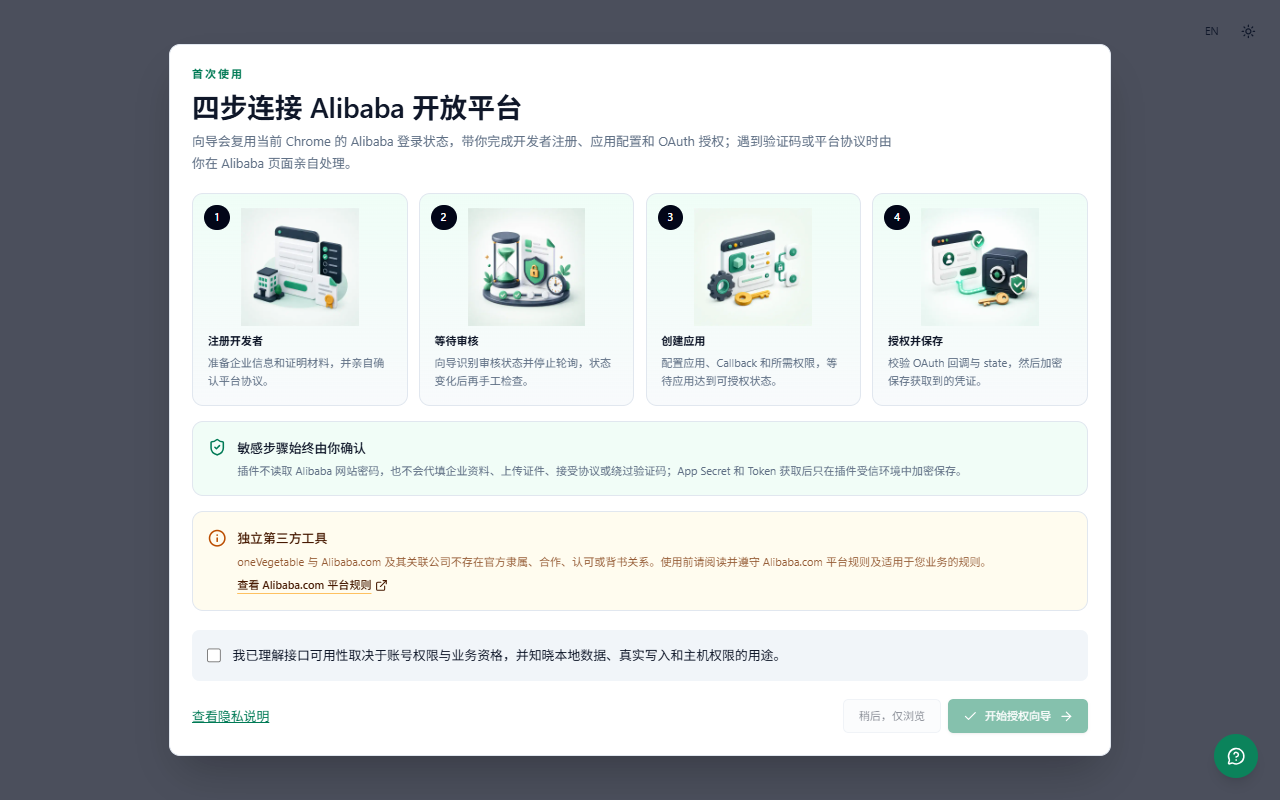
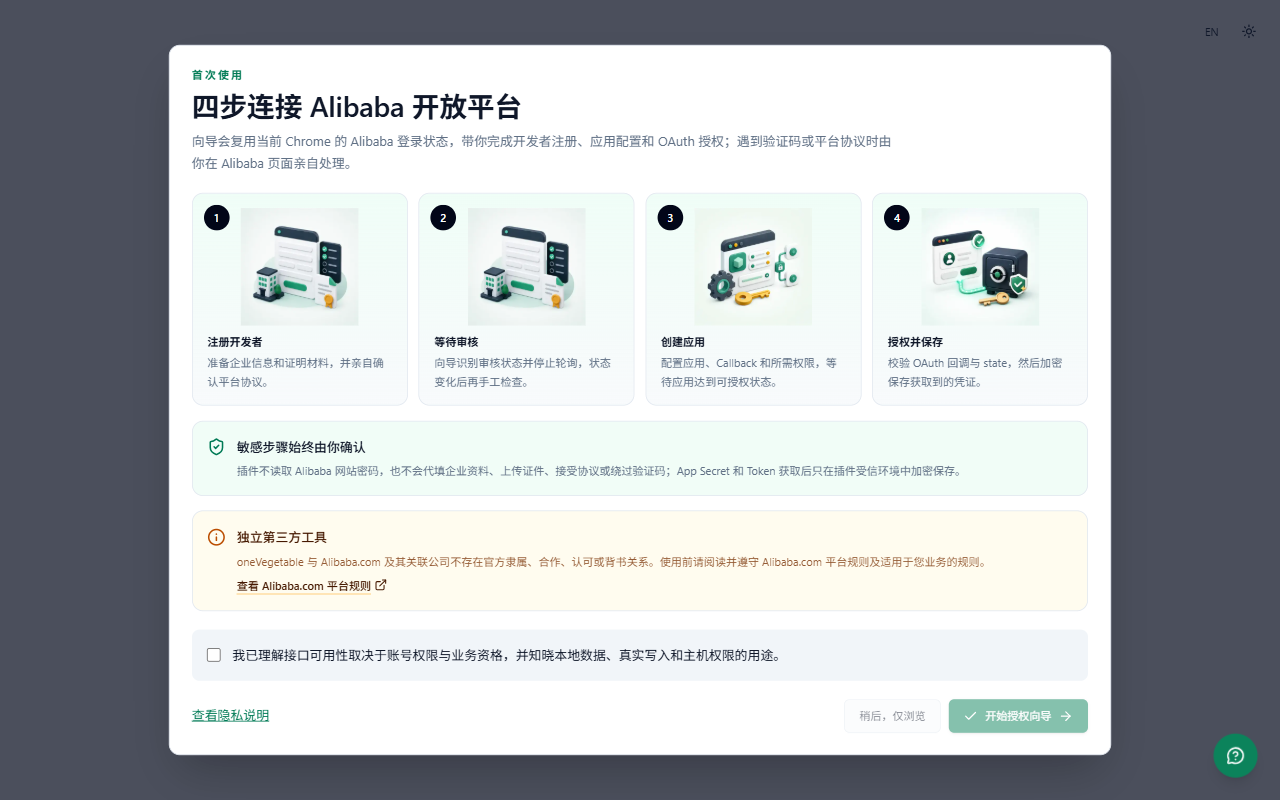
docs(release): finalize 2.6.0 candidate evidence and store screenshots

diff --git a/scripts/capture-store-assets.ts b/scripts/capture-store-assets.ts
@@ -68,9 +68,17 @@ await copyFile(
   resolve(screenshotsDirectory, 'zh-CN/01-onboarding.png'),
   resolve(screenshotsDirectory, '01-onboarding.png')
 );
+await copyFile(
+  resolve(screenshotsDirectory, 'zh-CN/03-capability-catalog.png'),
+  resolve(screenshotsDirectory, '02-capability-catalog.png')
+);
+await copyFile(
+  resolve(screenshotsDirectory, 'zh-CN/04-credential-settings.png'),
+  resolve(screenshotsDirectory, '03-local-data-control.png')
+);
 
 process.stdout.write(
-  'Captured 8 extension screenshots (4 zh-CN and 4 en-US) at 1280x800, refreshed the primary onboarding screenshot, and copied the 128px store icon.\n'
+  'Captured 8 extension screenshots (4 zh-CN and 4 en-US) at 1280x800, refreshed all 3 primary screenshots, and copied the 128px store icon.\n'
 );
 
 async function captureLocale(screenshotLocale: StoreScreenshotLocale): Promise<void> {

diff --git a/docs/release-2.6.0-readiness.md b/docs/release-2.6.0-readiness.md
@@ -1,8 +1,51 @@
 # 2.6.0 候选包验收
 
-状态：当前 2.6.0 候选包已重新构建，仍未正式发布。前序开发分支已合入并推送 `staging`（`ba27dc0`），其上创建 `codex/product-showcase-management`。本次新功能没有合入 master，没有创建发布 Tag、GitHub Release、部署 Worker 或提交 Chrome Web Store。
+状态：2.5.0 已由项目所有者确认上架；2.6.0 仍是候选，不是已发布版本。功能代码已推进到 `master` / `staging` 的 `d67aa45`；发布准备在 `codex/release-2.6.0-readiness` 完成。本轮没有创建发布 Tag、GitHub Release、部署 Worker 或上传、提交 Chrome Web Store。
 
 ## 最新候选（2026-09-11）
+
+- 包含图库传输任务中心、商品橱窗管理、三类列表自定义列、商品链接按钮、紧凑产品分/分组/状态列和扩展 API 目录。
+- Node 管理员现在可以在设置页导入授权 JSON 或手动填写凭据，查看状态、测试连接、更换及清除；数据库加密保存，清除后不静默回退启动凭据。详见 [Node 凭据配置](node-credential-management.md)。
+- 同步中英文版本说明、商店说明及橱窗写能力披露。正式扩展新 Profile 拍摄的中英文各 4 张截图已刷新，并逐张核对；不使用测试账号或虚构商品数据。
+- Windows 完成 `pnpm check` 的全部阶段：格式、Lint（0 error / 23 warning）、i18n、6 个 workspace 版本、93 项离线目录、42/42 replay、OpenAPI/生成物漂移、类型、**208 个文件 / 937 项单测**、Web/MV3/Worker dry-run 构建和商店合规。
+  - 格式阶段唯一例外：工作区另有不属于本轮的未跟踪文档 `docs/gpt-6-astra-integration-plan.md`，原样保留且不提交。直接执行 `pnpm check` 会被该文档格式阻止；本轮使用 `prettier --check . "!docs/gpt-6-astra-integration-plan.md"`，其余质量阶段逐项执行通过，未修改全局检查规则。
+- Web/正式 MV3 E2E **38 项**、Worker/D1 单测 **3 项**、BFF replay E2E **2 项**、Node 凭据界面中英文 E2E **2 项**通过。隔离测试只使用合成凭据与离线响应，不是新增的真实平台写验收。
+- 实际旧包升级验证 **28 项**通过，见下方升级边界。CI 和正式 Release workflow 已加入 `test:worker`。
+- Options 首次加载 JS **127,565 字节**；解包 **4,083,384 字节 / 137 文件**。Manifest 权限与 2.5.0 相同；保持 4,100,000 字节总量门槛，不放宽预算。
+- ZIP：`artifacts/one-vegetable-v2.6.0-chrome-mv3.zip`，**986,342 字节**。
[1 lines of base64/hex data omitted]
+- 运行内容基线为 `42545f2`（基于 `d67aa45` 更新版本说明）。之后的升级测试、截图工具、CI 和交接文档不改变运行内容；最终打包按完整文件列表核对并重复压缩验证一致。
+- 打包扫描通过：没有生产 source map、测试账号变量/值或内部 Mock 样本；商店材料副本由当前仓库来源重建。
+
+本机脱敏日志：`artifacts/release-2.6-{package,e2e,bff,node-credentials,worker,upgrade-final}.log`。最终升级报告：`artifacts/release-2.6-upgrade/afa1087f-69cf-4311-9ac0-67a9fcf42eb2/report.json`。
+
+### 升级与回退边界
+
+- 使用归档的 **2.5.0 正式 ZIP** 和 **早期 2.6.0 候选 ZIP**，先由旧运行时代码创建隔离测试数据，再在相同扩展安装路径、相同 Chromium Profile 中替换为新构建。
+- Alibaba 密文、S3 加密配置及密钥、商品本地草稿、界面语言、接口语言和主题保留；2.6.0 基线的列偏好、IndexedDB 传输任务也保留。
+- 浏览器重启/扩展更新后保险库重新锁定是预期安全行为；原口令仍可解密，不表示凭据丢失。已发出但没有回执的任务保持“结果不明”，只提供手工核对，不自动上传。
+- 2.5.0 不包含后续列偏好和持久任务，这两类升级由早期 2.6.0 基线补充验证。此次使用隔离合成数据、不读取用户真实 Profile，所有 HTTP 请求被阻断；不等于 Chrome 商店自动更新已经验收。
+- Node SQLite 和 workerd/D1 均覆盖 migration `0013_node_gateway_credentials.sql` 对原有加密凭据、AAD、审计字段及 revision 的保留；CI 不访问远端 D1。
+- 后续部署 Node/Worker 前必须备份数据库并保留原加密密钥。旧版客户端未验证读取新版任务格式；不能把卸载扩展或降级数据库当作无损回退。迁移回退需使用匹配的代码、数据库备份和密钥，本轮没有执行生产迁移。
+
+重跑升级检查：
+
+```powershell
+pnpm verify:extension-upgrade
+```
+
+命令需要本机归档 ZIP 及 SHA-256 文件。早期 2.6.0 基线保存在 `artifacts/release-2.6-upgrade/baselines/`，不会被当前候选打包覆盖；缺失时明确失败，不下载未知旧包或使用当前构建冒充旧版。
+
+### 发布前剩余人工步骤
+
+1. 确认候选功能及截图后，再合并发布准备分支；现有功能主线已经同步，不自动重新发布。
+2. 正式发版时移除应用内候选标记，改为实际发布链接；重新构建和校验，以上候选 SHA 随运行内容改变将失效。
+3. 创建不可变正式 tag/GitHub Release、Worker 部署、商店上传、提交审核及上架分别确认，不将其中一步当成全部完成。
+4. 扩展总量仅余 **16,616 字节**，i18n chunk 仅余 **67 字节**；下一迭代优先拆分/去重，不直接放宽门槛。
+
+## 先前橱窗候选（历史记录，不是当前包）
+
+2026-09-11，`codex/product-showcase-management` 尚未推进主线时：
 
 - 新增 [商品橱窗管理](product-showcase-management.md)：更多菜单入口、额度与可选状态列、批量加入/移出、确认与回读、本机未知结果保护。Node 本地和独立扩展可用；Cloudflare 写白名单本轮不变。
 - 同时包含前序 [列表自定义列](list-column-preferences.md)、商品链接按钮、紧凑分组/状态列和此前 API 目录扩展，不再使用 2026-09-10 的早期候选。
@@ -10,11 +53,11 @@
 - Web/正式扩展构建 E2E **38 项通过**；Worker 本地单测 **1 项通过**；Worker/D1/BFF replay E2E **2 项通过**。新增扩展测试经过真实 service worker 和 runtime messaging，但使用隔离的 TOP 响应，不宣称本轮重新执行了真实平台写入。
 - 真实 Web/Node BFF 已读取橱窗额度 **2 / 2 / 0** 及两件商品和图片，操作权限生效。本轮没有再次变更线上橱窗；先前受控写入及恢复见 [真实验证记录](showcase-mutation-validation.md)。
 - Options 首次加载 JS **127,283 字节**；解包 **4,064,503 字节 / 135 文件**。保持 4,100,000 字节总量门槛，不新增权限。仅将生成校验器中的说明性注解移除，OpenAPI 文档与所有校验规则保留。
-- 最新 ZIP：`artifacts/one-vegetable-v2.6.0-chrome-mv3.zip`，**978,397 字节**。
+- 当时 ZIP：**978,397 字节**，现已归档到 `artifacts/release-2.6-upgrade/baselines/one-vegetable-v2.6.0-chrome-mv3.zip`。
[1 lines of base64/hex data omitted]
 - 运行代码基线：`28ba677`。之后的测试等待修正和验收文档不改变运行包。
 
-旧包已另存 `artifacts/one-vegetable-v2.6.0-before-showcase.zip`，只供本地比较，不能当作本次候选上传。最新打包器已重复压缩验证可复现，并从源码重新生成商店材料副本。检查日志位于本机忽略目录 `artifacts/showcase-mutation-real/showcase-*.log`。
+更早的旧包另存 `artifacts/one-vegetable-v2.6.0-before-showcase.zip`，只供本地比较，不能当作本次候选上传。历史检查日志位于本机忽略目录 `artifacts/showcase-mutation-real/showcase-*.log`。
 
 ## 本次变化
 

diff --git a/docs/store-submission.md b/docs/store-submission.md
@@ -1,6 +1,6 @@
 # Chrome Web Store 提交清单
 
-检查日期：2026-09-08；当前候选版本：2.5.0。
+检查日期：2026-09-11；当前候选版本：2.6.0。2.5.0 已由项目所有者确认上架；本文件不表示 2.6.0 已上传、提交审核或发布。
 
 ## 已自动化验证
 
@@ -10,7 +10,7 @@
 - 应用中心、OAuth Callback、自定义网关、用户自托管社交发布 BFF、外部图片来源与用户配置的 S3 Endpoint 保持可选主机权限，并在用户启动对应功能时按具体站点申请；S3 不增加永久主机权限；
 - 中英文商店文案、权限理由、本地隐私页和仓库隐私政策存在且版本一致；
 - 128 × 128 商店图标、440 × 280 Small promo tile、3 张商店主截图，以及中英文各 4 张真实扩展页面的 1280 × 800 备选截图；
-- 平台草稿、正式发品、商品上下架、图库分组管理、图片上传和外部图片转存只在用户主动操作后开放；其他未经扩展路径真实验收的 mutation 在出网前关闭；
+- 平台草稿、正式发品、商品更新/上下架、商品分组创建、橱窗加入/移出、图库分组管理、图片上传和外部图片转存只在用户主动操作后开放；其他未经扩展路径真实验收的 mutation 在出网前关闭；
 - 插件社交发布必须先与用户自己的 BFF 一次性配对；设备令牌只允许读取发布目标和社交发布，不包含 Meta 密钥，单图发布仍需二次确认；
 - 发布 ZIP 可复现，manifest 位于根目录，CI 产物同时包含 SHA-256 和 `store-listing/` 提交资料。
 
@@ -86,7 +86,23 @@ pnpm upload:extension:draft -- --confirm-draft-upload
 - [x] 已提供 V2 API 草稿包上传工具；未配置 Publisher、service account 和短期 Token 时只保留本地预检能力；
 - [ ] 本文件不是法律意见，正式公开发布前仍需项目所有者确认隐私文本和适用地区要求。
 
-## 2.5.0 上传交接
+## 2.6.0 候选上传交接
+
[1 lines of base64/hex data omitted]
+- 中英文完整说明：`store-listing/zh_CN.md`、`store-listing/en.md`；权限与数据用途：`store-listing/listing.json`。打包后的副本位于 `artifacts/store-listing/`。
+- 截图：`store-listing/assets/screenshots/zh-CN/`、`en-US/` 各 4 张，1280 × 800。全部来自 2.6.0 正式扩展构建的空白 Profile；没有开发凭据、测试账号或虚构商品。原 Small promo tile 与图标可继续使用。
+- 本版不新增 Manifest 权限。更新商店功能描述中的图库任务恢复、列表可选列和橱窗管理；权限用途继续按现有声明填写。Node 凭据管理属于 Web/BFF，不宣传为插件新增的后端必需条件。
+- 2.5.0 和早期 2.6.0 到候选包的 28 项升级检查通过；刷新/重启不会丢失加密配置和草稿，中断传输需手工核对。升级会重新锁定保险库，用户应保留原口令。
+- 无账号审核步骤沿用上节。真实任务需要用户自有的 Alibaba 权限和可选 S3 配置；正式商店材料不得附带本项目的真实授权包。新任务能力及真实验收边界见 [2.6.0 候选包验收](release-2.6.0-readiness.md)。
+- 本轮没有执行 Alibaba 写操作、远端数据库迁移、Worker 部署、Store 上传或提交审核；正式 tag/Release 与商店动作后续分别确认。
+
+可用于版本更新摘要（不是替代完整商店描述）：
+
+> 2.6.0 新增图库 ZIP/S3 传输记录、暂停与安全恢复，支持商品、图库和订单列表自定义显示列，以及商品橱窗管理。优化商品链接和表格布局；升级保留本机配置与草稿。发生中断或结果不明时提示手工核对，避免重复上传。未新增扩展权限；实际接口可用性仍取决于账号权限。
+
+> Version 2.6.0 adds gallery ZIP/S3 transfer history, pause and safe recovery, customizable columns for product, gallery and order lists, and product showcase management. Product links and table layouts are improved. Local settings and drafts are retained during upgrades. Interrupted or uncertain transfers require manual verification to avoid duplicate uploads. No new extension permissions; API availability still depends on account permissions.
+
+## 2.5.0 上传交接（历史记录，已上架）
 
 - ZIP：`artifacts/one-vegetable-v2.5.0-chrome-mv3.zip`；校验值以同目录 `.zip.sha256` 和 `release.json` 为准。
 - 中英文说明、权限理由及审核说明：`artifacts/store-listing/`（由 `pnpm release:extension` 从仓库提交资料复制）。
